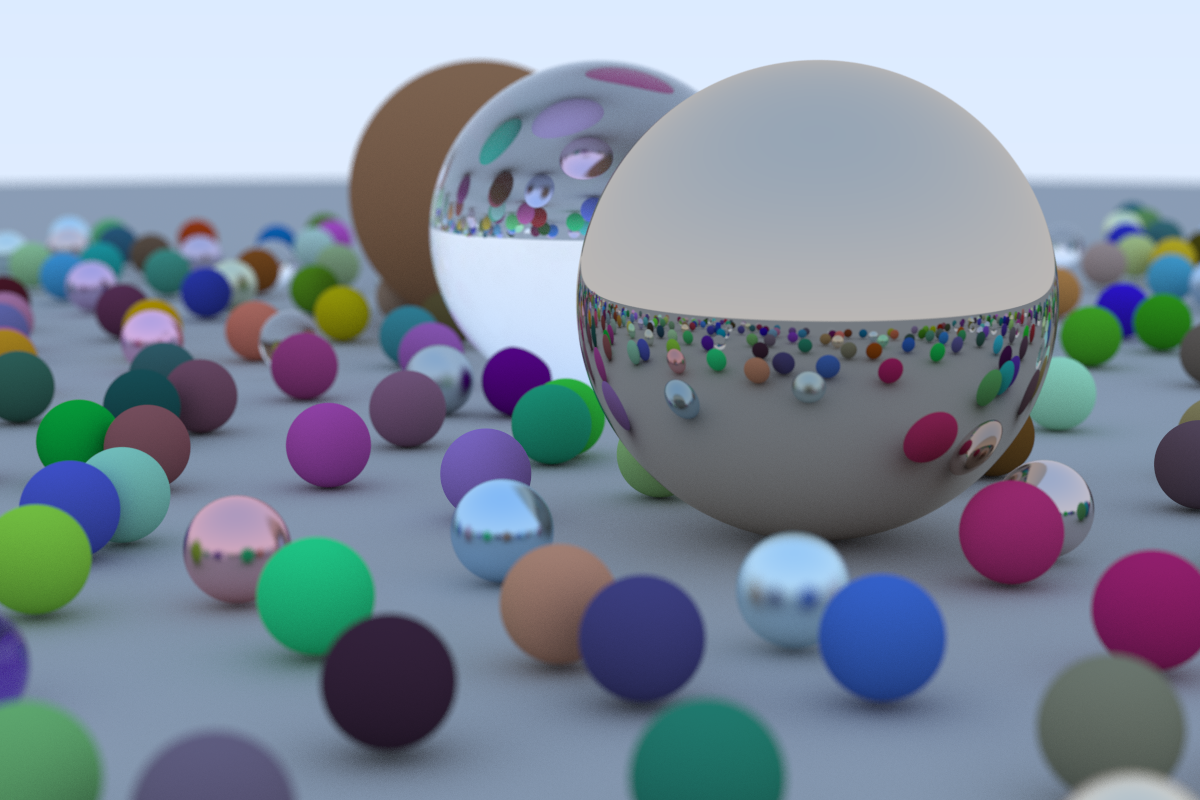
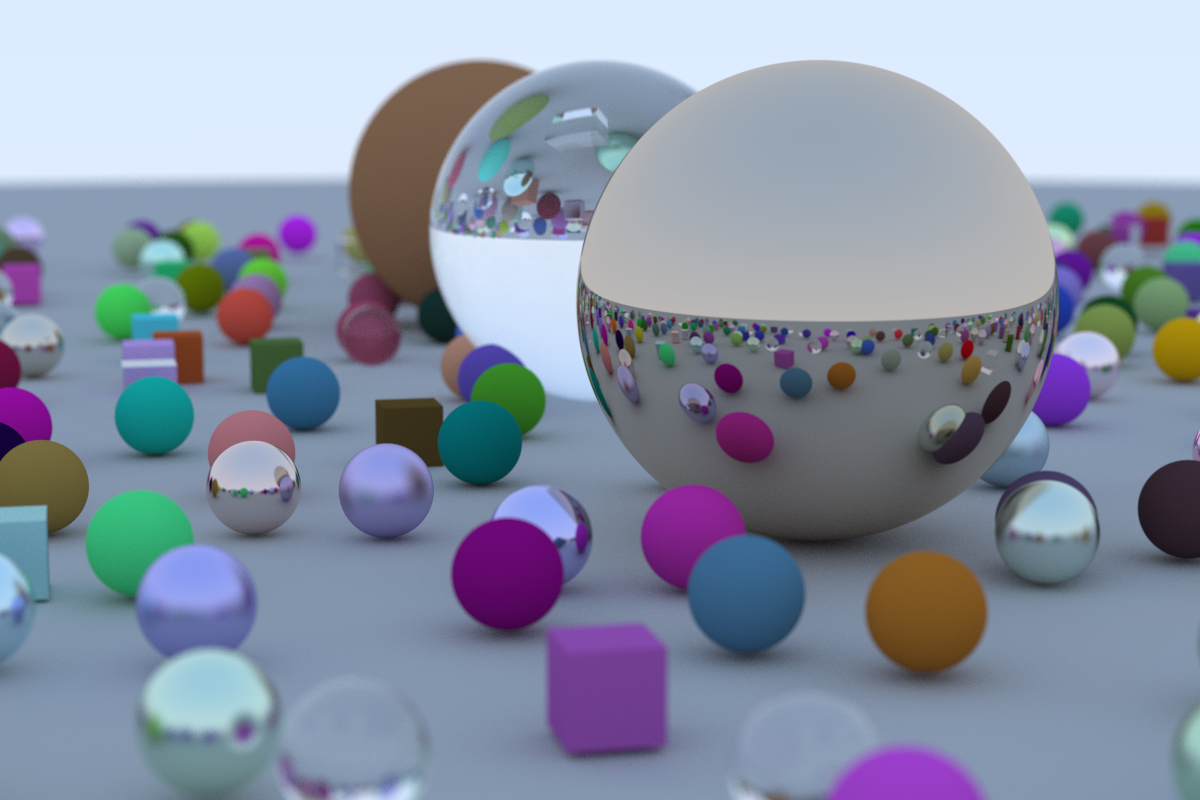
add cubes

diff --git a/src/objects.rs b/src/objects.rs
@@ -1,7 +1,8 @@
 use crate::materials::Material;
 use crate::ray::Ray;
-use crate::{HitRecord, Point3};
+use crate::{HitRecord, Point3, UnitVec3};
 
+use crate::vec3::Vec3;
 use enum_dispatch::enum_dispatch;
 
 #[enum_dispatch]
@@ -9,7 +10,7 @@ pub trait Hittable {
     fn hit(&self, r: Ray, t_min: f64, t_max: f64) -> Option<HitRecord>;
 }
 
-impl Hittable for Vec<Object> {
+impl Hittable for &[Object] {
     fn hit(&self, r: Ray, t_min: f64, t_max: f64) -> Option<HitRecord> {
         self.iter()
             .flat_map(|h| h.hit(r, t_min, t_max))
@@ -21,6 +22,8 @@ impl Hittable for Vec<Object> {
 #[derive(Copy, Clone, Debug)]
 pub enum Object {
     Sphere,
+    Square,
+    Cube,
 }
 
 #[derive(Debug, Copy, Clone)]
@@ -57,5 +60,129 @@ impl Hittable for Sphere {
         let outward_normal = (p - self.center) / self.radius;
 
         Some(HitRecord::new(p, r.dir, t, outward_normal, self.material))
+    }
+}
+
+#[derive(Debug, Copy, Clone)]
+pub struct Square {
+    center: Point3,
+    radius: f64,
+    normal: UnitVec3,
+    orientation: UnitVec3,
+    material: Material,
+}
+
+impl Hittable for Square {
+    fn hit(&self, r: Ray, t_min: f64, t_max: f64) -> Option<HitRecord> {
+        let oc = r.orig - self.center;
+        let d = r.dir.x * self.normal.x + r.dir.y * self.normal.y + r.dir.z * self.normal.z;
+        if d.abs() < 1e-16 {
+            return None;
+        }
+        let a = -oc.x * self.normal.x - oc.y * self.normal.y - oc.z * self.normal.z;
+
+        let t = a / d;
+        if t < t_min || t > t_max {
+            return None;
+        }
+        let p = r.at(t);
+        let op = p - self.center;
+        let outward_normal = self.normal;
+        if op.dot(self.orientation).abs() > self.radius {
+            return None;
+        }
+        if op.dot(self.orientation.cross(self.normal)).abs() > self.radius {
+            return None;
+        }
+
+        Some(HitRecord::new(p, r.dir, t, outward_normal, self.material))
+    }
+}
+
+#[derive(Debug, Copy, Clone)]
+pub struct Cube {
+    face_a0: Square,
+    face_a1: Square,
+    face_b0: Square,
+    face_b1: Square,
+    face_c0: Square,
+    face_c1: Square,
+}
+
+impl Cube {
+    pub fn new(center: Point3, radius: f64, axis0: Vec3, axis1: Vec3, material: Material) -> Self {
+        assert!(axis0.cross(axis1).length_squared() > 0.0);
+        let a = axis0.unit_vector();
+        let b = (axis1 - a * axis1.dot(a)).unit_vector();
+        let c = a.cross(b);
+
+        let face_a0 = Square {
+            center: center + radius * a,
+            radius,
+            normal: a,
+            orientation: b,
+            material,
+        };
+        let face_a1 = Square {
+            center: center - radius * a,
+            radius,
+            normal: -a,
+            orientation: -b,
+            material,
+        };
+
+        let face_b0 = Square {
+            center: center + radius * b,
+            radius,
+            normal: b,
+            orientation: c,
+            material,
+        };
+        let face_b1 = Square {
+            center: center - radius * b,
+            radius,
+            normal: -b,
+            orientation: -c,
+            material,
+        };
+
+        let face_c0 = Square {
+            center: center + radius * c,
+            radius,
+            normal: c,
+            orientation: a,
+            material,
+        };
+        let face_c1 = Square {
+            center: center - radius * c,
+            radius,
+            normal: -c,
+            orientation: -a,
+            material,
+        };
+
+        Cube {
+            face_a0,
+            face_a1,
+            face_b0,
+            face_b1,
+            face_c0,
+            face_c1,
+        }
+    }
+}
+
+impl Hittable for Cube {
+    fn hit(&self, r: Ray, t_min: f64, t_max: f64) -> Option<HitRecord> {
+        [
+            self.face_a0.into(),
+            self.face_a1.into(),
+            self.face_b0.into(),
+            self.face_b1.into(),
+            self.face_c0.into(),
+            self.face_c1.into(),
+        ]
+        .as_ref()
+        .hit(r, t_min, t_max)
     }
 }

diff --git a/src/main.rs b/src/main.rs
@@ -4,7 +4,7 @@ use rayon::prelude::*;
 
 use badtracing::camera::Camera;
 use badtracing::materials::{Dielectric, Lambertian, Metal};
-use badtracing::objects::{Object, Sphere};
+use badtracing::objects::{Cube, Object, Sphere};
 use badtracing::vec3::Vec3;
 use badtracing::{
     random_f64, random_f64_mm, random_vec3, random_vec3_mm, ray_color, write_color, Color, Point3,
@@ -57,7 +57,7 @@ fn main() {
                     let u = (f64::from(i) + random_f64(&mut rng)) / f64::from(IMAGE_WIDTH);
                     let v = (f64::from(j) + random_f64(&mut rng)) / f64::from(IMAGE_HEIGHT);
                     let r = cam.get_ray(&mut rng, u, v);
-                    pixel_color += ray_color(&mut rng, r, &world, MAX_DEPTH);
+                    pixel_color += ray_color(&mut rng, r, world.as_ref(), MAX_DEPTH);
                 }
                 scanline.push(pixel_color);
             }
@@ -109,28 +109,42 @@ fn random_scene() -> Vec<Object> {
             );
 
             if (center - Point3::new(4.0, 0.2, 0.0)).length() > 0.9 {
-                let sphere_material;
-                if choose_mat < 0.8 {
+                let material;
+                if choose_mat < 0.7 {
                     // diffuse
                     let albedo: Color = random_vec3(&mut rng) * random_vec3(&mut rng);
-                    sphere_material = Lambertian { albedo }.into();
-                } else if choose_mat < 0.95 {
+                    material = Lambertian { albedo }.into();
+                } else if choose_mat < 0.9 {
                     // metal
                     let albedo: Color = random_vec3_mm(&mut rng, 0.5, 1.0);
                     let fuzz = random_f64_mm(&mut rng, 0.0, 0.5);
-                    sphere_material = Metal { albedo, fuzz }.into();
+                    material = Metal { albedo, fuzz }.into();
                 } else {
                     // glass
-                    sphere_material = Dielectric { ir: 1.5 }.into();
+                    material = Dielectric { ir: 1.5 }.into();
                 }
-                world.push(
-                    Sphere {
-                        center,
-                        radius: 0.2,
-                        material: sphere_material,
-                    }
-                    .into(),
-                )
+                let direction = random_f64(&mut rng);
+                if direction > 0.2 {
+                    world.push(
+                        Sphere {
+                            center,
+                            radius: 0.2,
+                            material,
+                        }
+                        .into(),
+                    )
+                } else {
+                    world.push(
+                        Cube::new(
+                            center - Vec3::new(0.0, 0.05, 0.0),
+                            0.15,
+                            Vec3::new(0.0, 1.0, 0.0),
+                            Vec3::new(1.0 - direction, 0.0, 0.0),
+                            material,
+                        )
+                        .into(),
+                    )
+                }
             }
         }
     }

diff --git a/src/lib.rs b/src/lib.rs
@@ -13,19 +13,20 @@ pub mod ray;
 pub mod vec3;
 
 pub type Point3 = Vec3;
+pub type UnitVec3 = Vec3;
 pub type Color = Vec3;
 
 #[derive(Debug, Copy, Clone)]
 pub struct HitRecord {
     pub p: Point3,
-    pub normal: Vec3,
+    pub normal: UnitVec3,
     pub material: Material,
     pub t: f64,
     pub front_face: bool,
 }
 
 impl HitRecord {
-    pub fn new(p: Point3, direction: Vec3, t: f64, outward_normal: Vec3, m: Material) -> Self {
+    pub fn new(p: Point3, direction: Vec3, t: f64, outward_normal: UnitVec3, m: Material) -> Self {
         let front_face = direction.dot(outward_normal) < 0.0;
         let normal = if front_face {
             outward_normal
@@ -57,7 +58,7 @@ pub fn write_color(pixel_color: Color, samples_per_pixel: i32) {
     println!("{} {} {}", ri, gi, bi)
 }
 
-pub fn ray_color<R: Rng>(rng: &mut R, r: Ray, world: &dyn Hittable, depth: i32) -> Color {
+pub fn ray_color<R: Rng, H: Hittable>(rng: &mut R, r: Ray, world: H, depth: i32) -> Color {
     // If we've exceeded the ray bounce limit, no more light is gathered.
     if depth <= 0 {
         return Color::default();

diff --git a/src/vec3.rs b/src/vec3.rs
@@ -1,3 +1,4 @@
+use crate::UnitVec3;
 use std::fmt::{Display, Formatter};
 use std::ops::{Add, AddAssign, Div, DivAssign, Index, Mul, MulAssign, Neg, Sub};
 
@@ -33,7 +34,7 @@ impl Vec3 {
         }
     }
 
-    pub fn unit_vector(self) -> Self {
+    pub fn unit_vector(self) -> UnitVec3 {
         self / self.length()
     }
 
